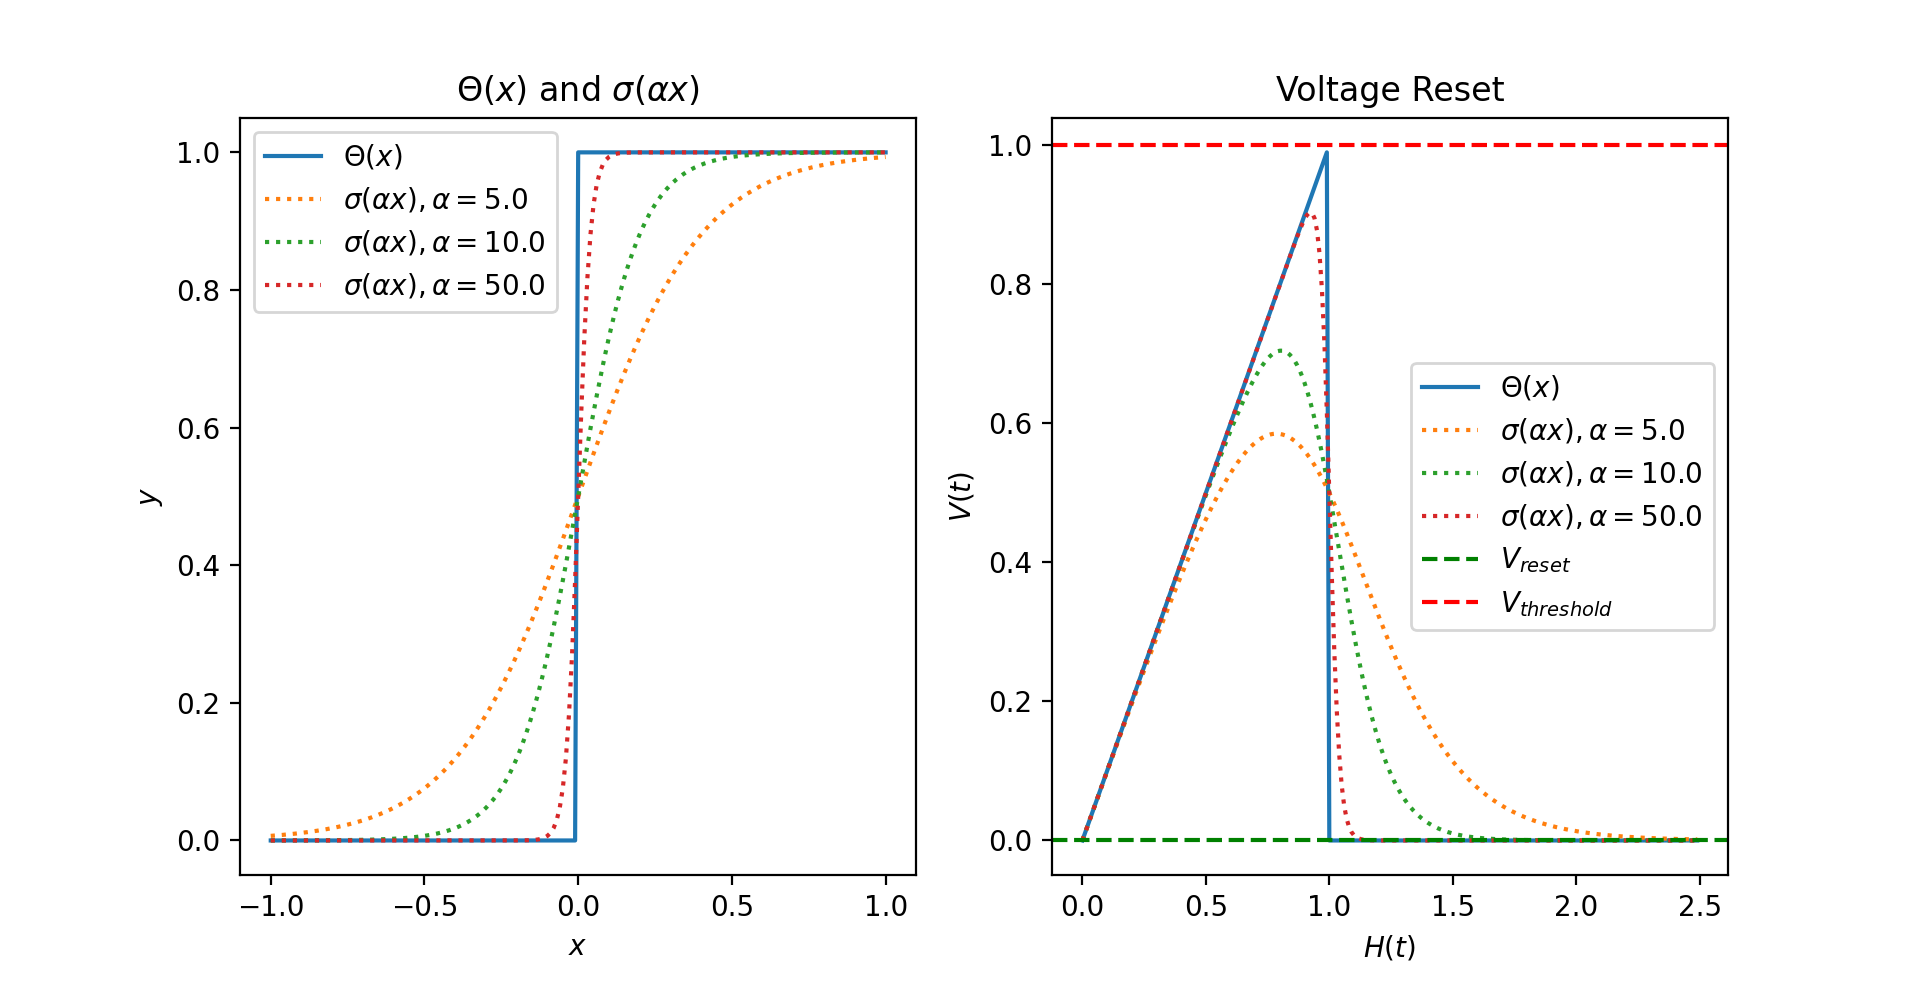
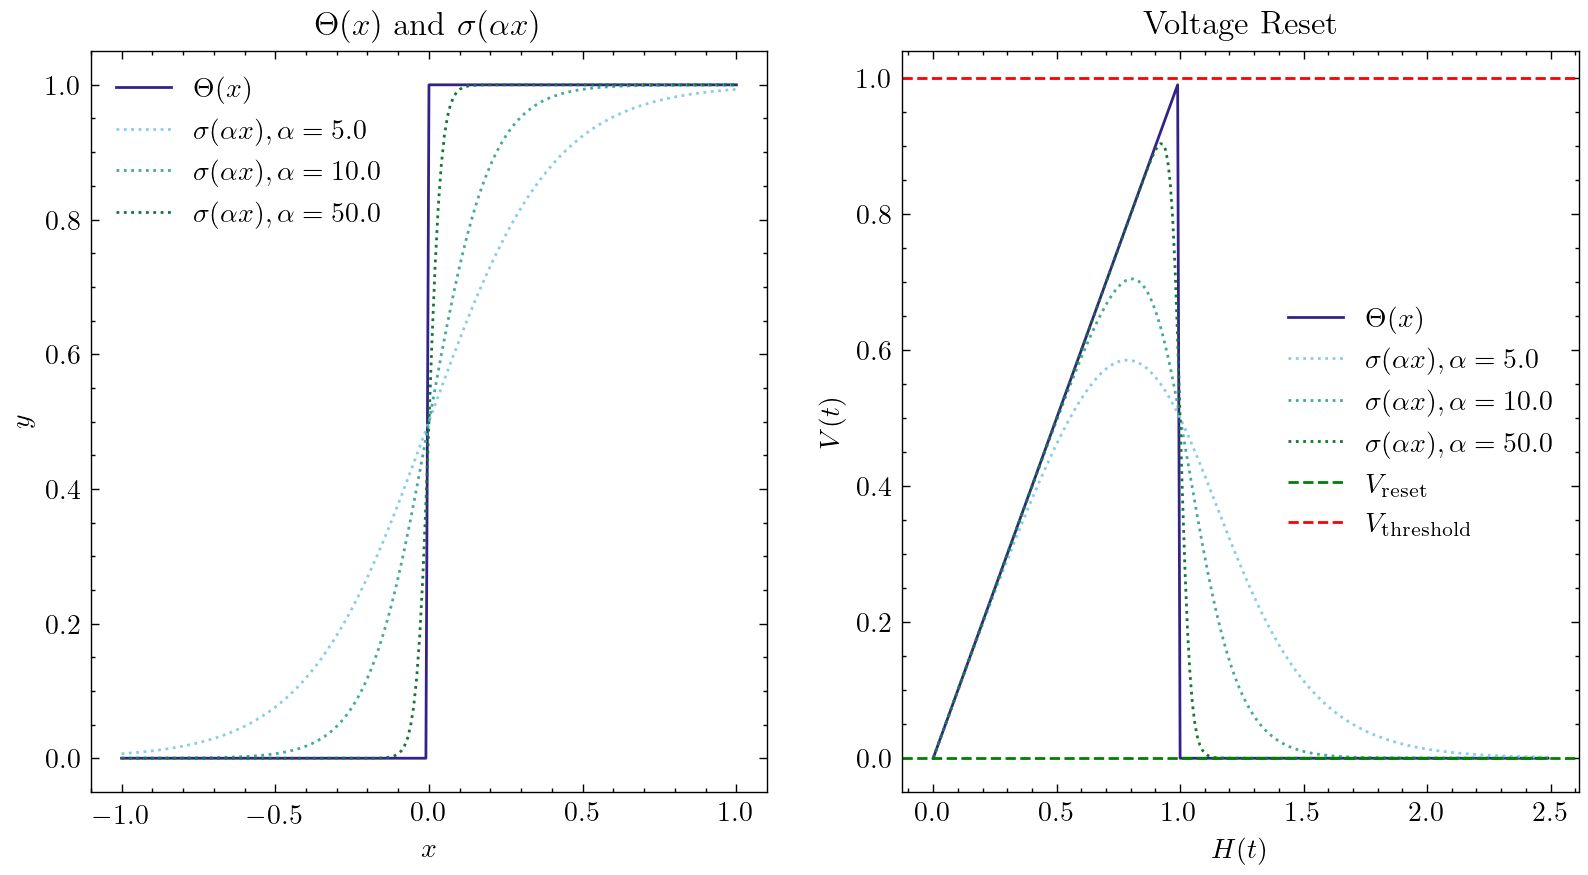
教程图像重绘

diff --git a/demo.py b/demo.py
@@ -1,0 +1,101 @@
+from matplotlib import pyplot as plt
+import torch
+from SpikingFlow.clock_driven import neuron
+from SpikingFlow import visualizing
+import numpy as np
+import matplotlib
+
+# Requires SciencePlots package: https://github.com/garrettj403/SciencePlots 
+plt.style.use(['science'])
+
+neuron_num = 32
+T = 50
+lif_node = neuron.LIFNode(monitor_state=True)
+w = torch.rand([neuron_num]) * 50
+for t in range(T):
+	lif_node(w * torch.rand(size=[neuron_num]))
+s_t_array = np.asarray(lif_node.monitor['s']).T  # s_t_array[i][j]表示神经元i在j时刻释放的脉冲，为0或1
+v_t_array = np.asarray(lif_node.monitor['v']).T  # v_t_array[i][j]表示神经元i在j时刻的电压值
+
+fig = plt.figure(dpi=125, tight_layout=True)
+gs = matplotlib.gridspec.GridSpec(5, 5)
+
+# plot_1d_spikes
+spikes_map = fig.add_subplot(gs[:3, :4])
+spiking_rate_map = fig.add_subplot(gs[:3, 4])
+
+spikes_map.set_title('Spikes of Neurons')
+spikes_map.set_xlabel('Simulating Step')
+spikes_map.set_ylabel('Neuron Index')
+
+spikes_map.xaxis.set_major_locator(matplotlib.ticker.MaxNLocator(integer=True))
+spikes_map.yaxis.set_major_locator(matplotlib.ticker.MaxNLocator(integer=True))
+
+spikes_map.xaxis.set_minor_locator(matplotlib.ticker.NullLocator())
+spikes_map.yaxis.set_minor_locator(matplotlib.ticker.NullLocator())
+
+spikes_map.set_xlim(0, s_t_array.shape[1] - 1)
+spikes_map.set_ylim(-0.5, s_t_array.shape[0] - 0.5)
+spikes_map.invert_yaxis()
+N = s_t_array.shape[0]
+T = s_t_array.shape[1]
+t = np.arange(0, T)
+t_spike = s_t_array * t
+mask = (s_t_array == 1)  # eventplot中的数值是时间发生的时刻，因此需要用mask筛选出
+
+colormap = plt.get_cmap('tab10')  # cmap的种类参见https://matplotlib.org/gallery/color/colormap_reference.html
+
+for i in range(N):
+	spikes_map.eventplot(t_spike[i][mask[i]], lineoffsets=i, colors=colormap(i % 10))
+
+spiking_rate = np.mean(s_t_array, axis=1, keepdims=True)
+max_rate = spiking_rate.max()
+spiking_rate_map.yaxis.set_major_locator(matplotlib.ticker.MaxNLocator(integer=True))
+spiking_rate_map.yaxis.set_minor_locator(matplotlib.ticker.NullLocator())
+spiking_rate_map.imshow(spiking_rate, cmap='magma', aspect='auto')
+
+for i in range(spiking_rate.shape[0]):
+	spiking_rate_map.text(0, i, spiking_rate[i][0], ha='center', va='center', color='w' if spiking_rate[i][0] < 0.8 * max_rate else 'black')
+spiking_rate_map.get_xaxis().set_visible(False)
+spiking_rate_map.set_title('Firing Rate')
+
+# plot_2d_heatmap
+
+heatmap = fig.add_subplot(gs[3:, :3])
+im = heatmap.imshow(v_t_array, aspect='auto')
+heatmap.set_title('Membrane Potentials')
+heatmap.set_xlabel('Simulating Step')
+heatmap.set_ylabel('Neuron Index')
+heatmap.xaxis.set_major_locator(matplotlib.ticker.MaxNLocator(integer=True))
+heatmap.yaxis.set_major_locator(matplotlib.ticker.MaxNLocator(integer=True))
+heatmap.xaxis.set_minor_locator(matplotlib.ticker.NullLocator())
+heatmap.yaxis.set_minor_locator(matplotlib.ticker.NullLocator())
+
+cbar = heatmap.figure.colorbar(im)
+cbar.ax.set_ylabel('Voltage Magnitude', rotation=90, va='top')
+cbar.ax.yaxis.set_minor_locator(matplotlib.ticker.NullLocator())
+
+# plot_2d_spiking_feature_map
+
+C = 48
+W = 8
+H = 8
+spikes = (np.random.rand(C, W, H) > 0.8).astype(float)
+C = spikes.shape[0]
+
+h = spikes.shape[1]
+w = spikes.shape[2]
+y = np.ones(shape=[(h + 2) * 6, (w + 2) * 8]) * spikes.max().item()
+index = 0
+for i in range(1, y.shape[0], h + 2):
+	for j in range(1, y.shape[1], w + 2):
+		y[i:i + h, j:j + w] = spikes[index]
+		index += 1
+maps = fig.add_subplot(gs[3:, 3:])
+maps.set_title('Spiking Feature Maps')
+maps.imshow(y, cmap='gray')
+
+maps.get_xaxis().set_visible(False)
+maps.get_yaxis().set_visible(False)
+
+plt.show()

diff --git a/docs/source/_static/tutorials/clock_driven/plot1.py b/docs/source/_static/tutorials/clock_driven/plot1.py
@@ -1,5 +1,8 @@
 import torch
 from matplotlib import pyplot as plt
+
+plt.style.use(['science','muted'])
+
 def reset_v(h, s):
     return h * (1 - s)
 x = torch.arange(-1, 1.01, 0.01)
@@ -24,8 +27,8 @@ plt.plot(h, reset_v(h, (h >= 1).float()), label='$\\Theta(x)$')
 plt.plot(h, reset_v(h, torch.sigmoid(5 * (h - 1))), linestyle=':', label='$\\sigma(\\alpha x), \\alpha=5.0$')
 plt.plot(h, reset_v(h, torch.sigmoid(10 * (h - 1))), linestyle=':', label='$\\sigma(\\alpha x), \\alpha=10.0$')
 plt.plot(h, reset_v(h, torch.sigmoid(50 * (h - 1))), linestyle=':', label='$\\sigma(\\alpha x), \\alpha=50.0$')
-plt.axhline(0, linestyle='--', label='$V_{reset}$', c='g')
-plt.axhline(1, linestyle='--', label='$V_{threshold}$', c='r')
+plt.axhline(0, linestyle='--', label='$V_\\text{reset}$', c='g')
+plt.axhline(1, linestyle='--', label='$V_\\text{threshold}$', c='r')
 
 plt.legend()
 plt.show()

diff --git a/SpikingFlow/visualizing/__init__.py b/SpikingFlow/visualizing/__init__.py
@@ -233,7 +233,7 @@ def plot_2d_spiking_feature_map(spikes: np.asarray, nrows, ncols, space, title: 
         W = 8
         H = 8
         spikes = (np.random.rand(C, W, H) > 0.8).astype(float)
-        visualizing.plot_2d_spiking_feature_map(spikes=spikes, nrows=6, ncols=8, space=2, title='spiking feature map', dpi=200)
+        visualizing.plot_2d_spiking_feature_map(spikes=spikes, nrows=6, ncols=8, space=2, title='Spiking Feature Maps', dpi=200)
         plt.show()
 
     .. image:: ./_static/API/visualizing/plot_2d_spiking_feature_map.*
